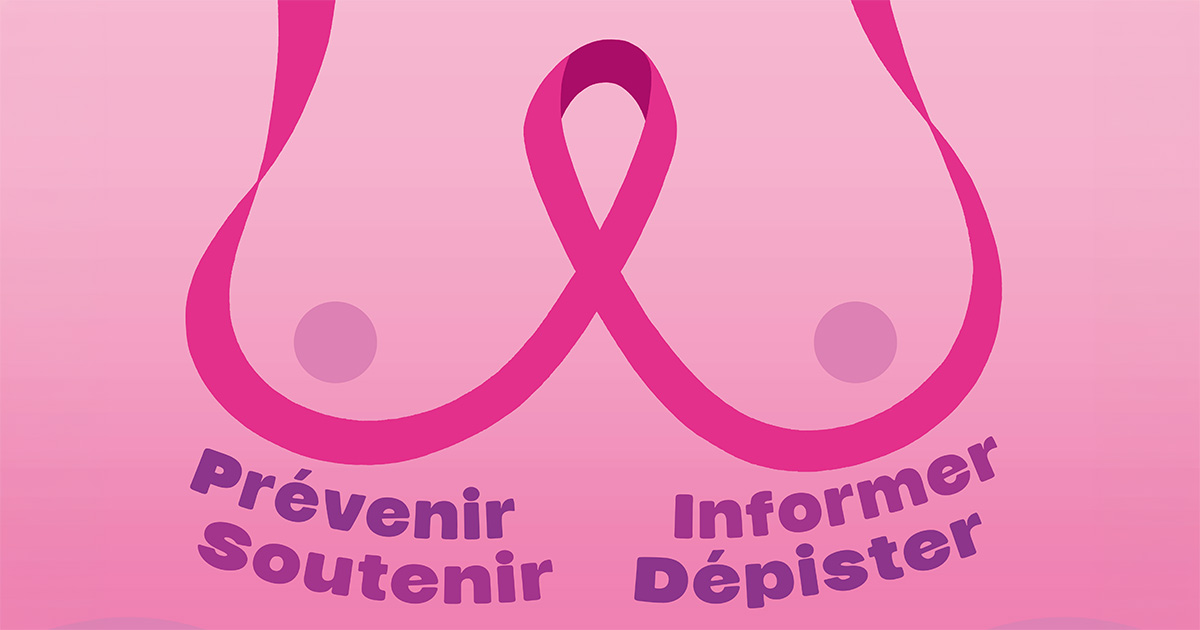
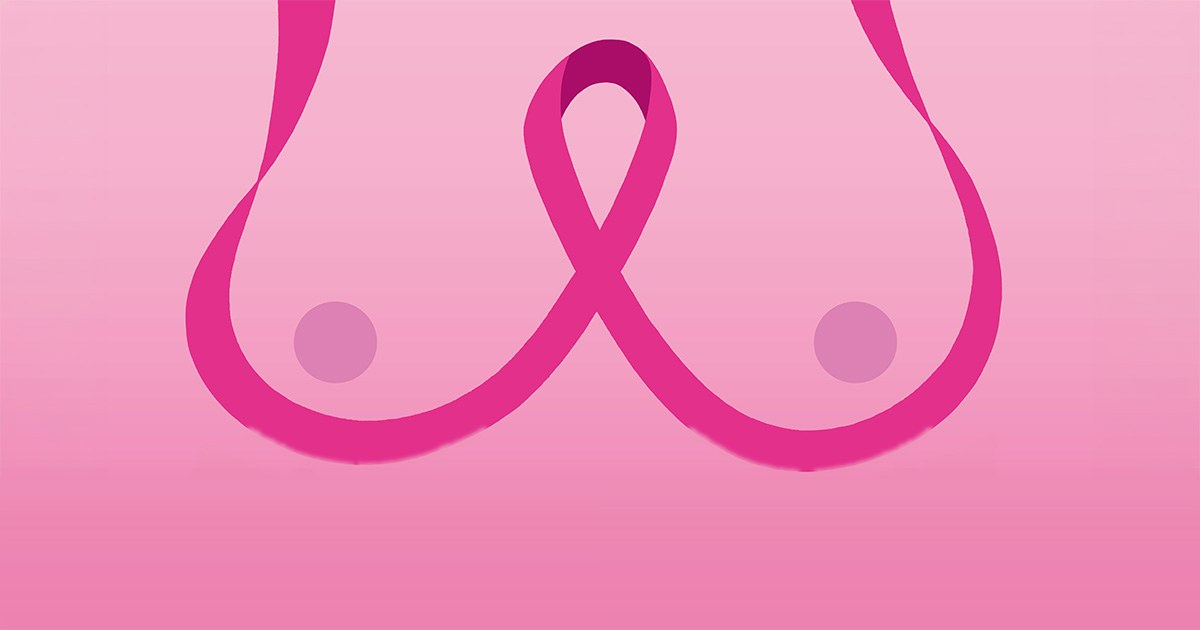
Octobre Rose : fond nettoye, et le hero garde le premier ecran
Les mots de l'illustration - Prevenir, Soutenir, Informer, Depister -
depassaient sous notre texte : deux messages se disputaient la meme
place. Repeindre des lignes entieres aurait coupe les boucles du ruban,
qui descendent au meme niveau ; seuls les pixels des LETTRES sont donc
remplaces par le fond, releve dans les marges ou aucun mot ne passe.
Sous la ligne 478, plus aucun ruban : la ligne entiere y est repeinte.

Le hero occupe desormais le premier ecran a lui seul - hauteur de la
fenetre moins l'entete collee. La collecte de fonds n'apparait qu'au
defilement, et ne dispute plus le premier regard a la campagne.

Mesure a 900, 1100 et 812 px de haut : la collecte commence toujours
sous la ligne de flottaison.

diff --git a/assets/css/octobre-rose.css b/assets/css/octobre-rose.css
@@ -108,7 +108,14 @@ html.octobre-rose body::before {
    Vider cette feuille rend la page à son hero d'origine. */
 html.octobre-rose .hero { display: none; }
 html.octobre-rose #hero-octobre {
-  display: block;
+  /* Le hero occupe le premier ecran a lui seul : la collecte de fonds
+     apparaissait sous l'affiche sans qu'on ait defile, et deux appels se
+     disputaient le premier regard. 77 px : la hauteur de l'entete, qui
+     reste collee en haut. */
+  display: flex;
+  align-items: center;
+  min-height: calc(100vh - 77px);
+  min-height: calc(100svh - 77px);
   position: relative;
   padding: 54px 0 48px;
   /* Le voile AVANT l'image dans la pile : dense a gauche pour que le
@@ -121,6 +128,7 @@ html.octobre-rose #hero-octobre {
     linear-gradient(135deg, #6D1038 0%, #93134B 48%, #C2185B 100%);
   color: #FFFFFF;
 }
+html.octobre-rose #hero-octobre > .wrap { width: 100%; }
 html.octobre-rose .hero-or-grille {
   display: grid;
   grid-template-columns: minmax(0, 1fr);
